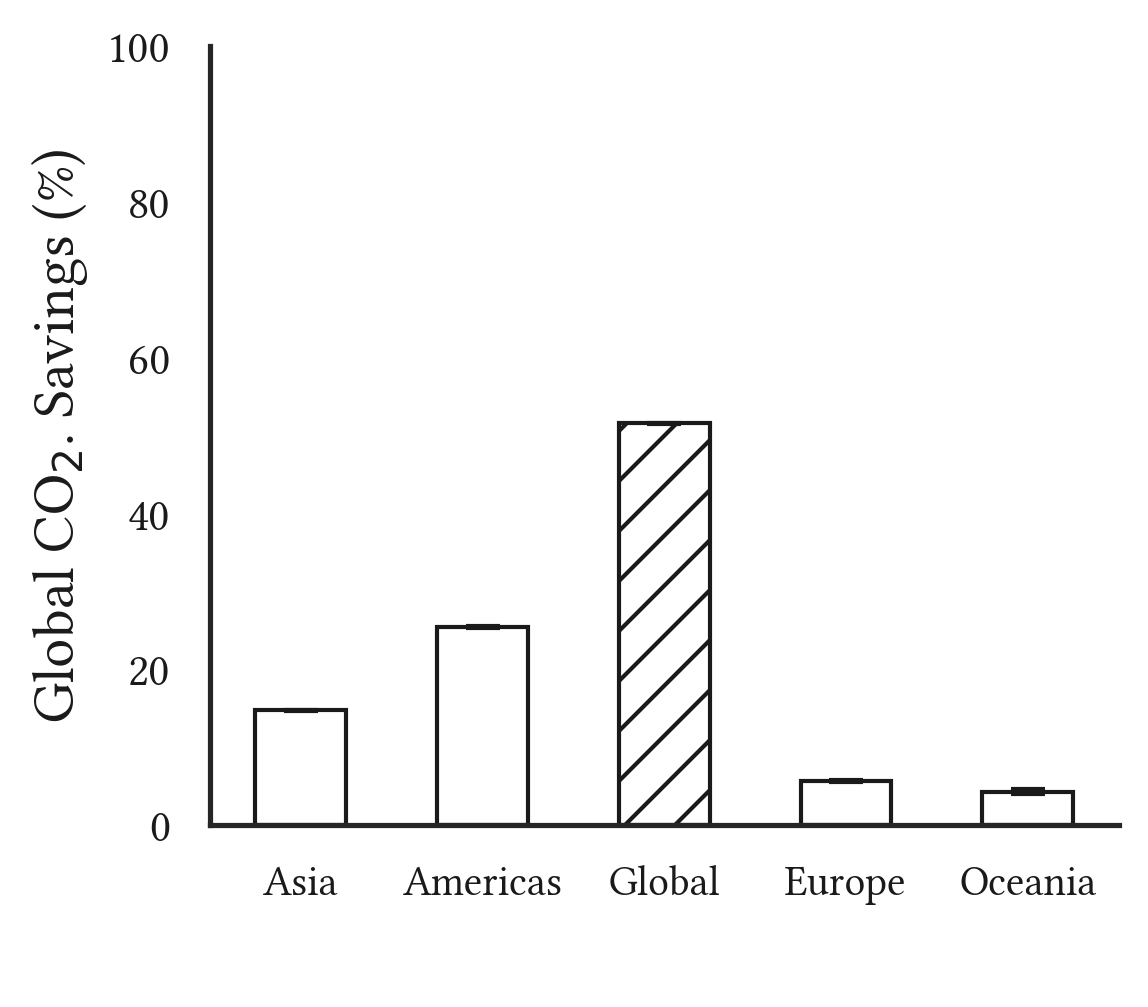
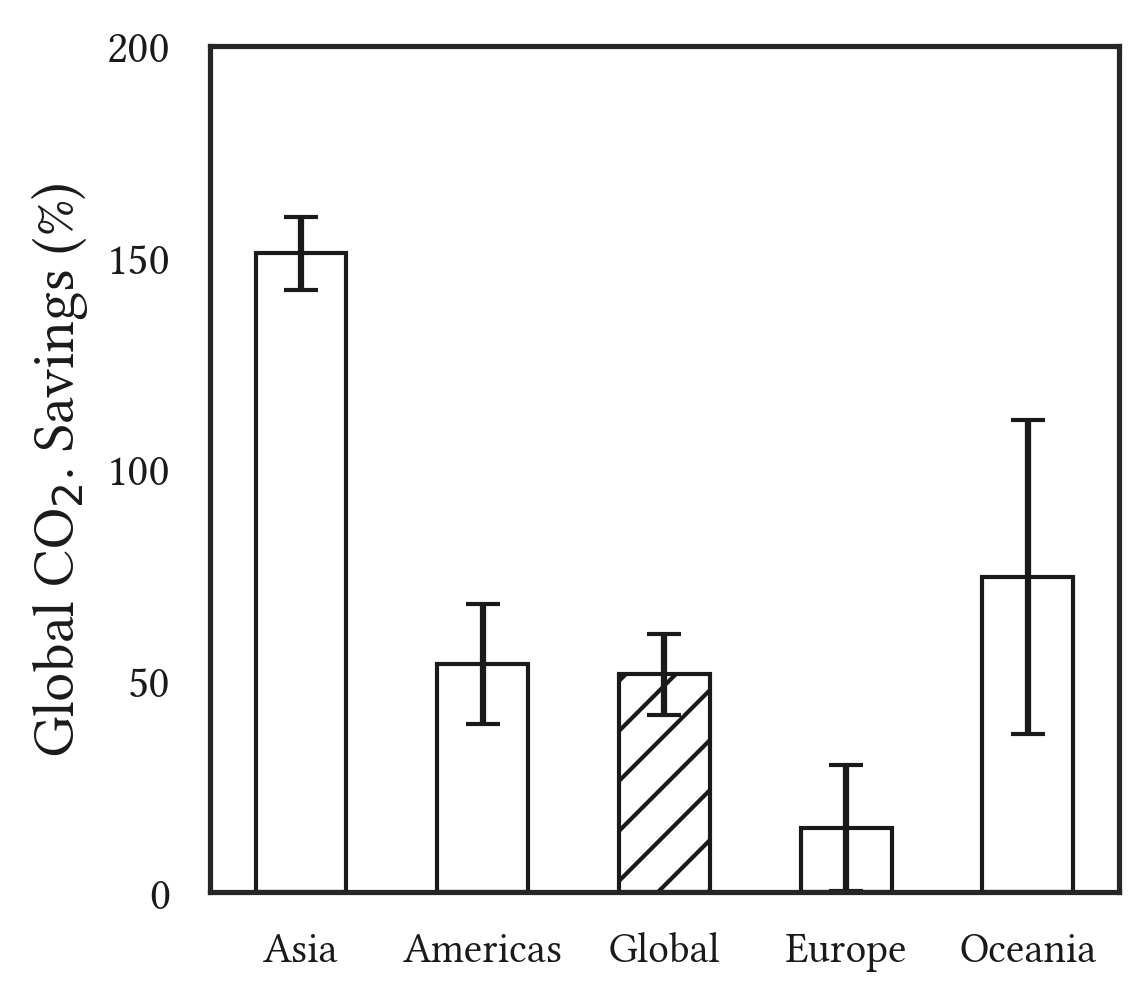
update spatial

diff --git a/spatial/grouping_breakdown_w_capacity/plot_geo_w_capacity.py b/spatial/grouping_breakdown_w_capacity/plot_geo_w_capacity.py
@@ -1,5 +1,6 @@
 import matplotlib.pyplot as plt
 import pandas as pd
+import numpy as np
 import seaborn as sns 
 import sys
 import os 
@@ -24,7 +25,9 @@ groupings = ["Asia", "Americas" ,"Global", "Europe", "Oceania",]
 combined_df = pd.DataFrame(index=["avg", "std"])
 
 
-global_baseline = data_df['0'].sum()
+# global_baseline = data_df['0'].sum()
+global_baseline = data_df['0'].mean().mean()
+
 
 for grouping in groupings: 
 
@@ -39,7 +42,7 @@ for grouping in groupings:
     region_savings /= global_baseline
     region_savings *= 100
 
-    mean_savings = region_savings.sum()
+    mean_savings = region_savings.mean()
 
 
     std_savings = region_savings.sem()
@@ -70,15 +73,16 @@ combined_df["avg"].plot.bar(ax=ax,
                    edgecolor="k")
 
 y_lower = 0
-y_upper = 100
+y_upper = 200
+step = 50
 
 plt.ylim([y_lower, y_upper])
+plt.yticks(np.arange(y_lower, y_upper+1, step))
 
 ax.set_ylabel(r"Global CO$_2$. Savings (%)",fontsize=mainlabelsize)
 ax.tick_params(left=False, bottom=False)
 
 ax.set_xticklabels(ax.get_xticklabels(), rotation=360,fontsize=ticklabelsize)
-ax.spines[['right', 'top']].set_visible(False)
 
 savename = f"{savetodir}/one_migration_w_cap_{idle_cap}"
 plt.tight_layout()

diff --git a/spatial/readme.md b/spatial/readme.md
@@ -7,6 +7,7 @@ Required files can be procssed using the scripts in [prep_rawdata](../prep_rawda
 * Required files: Combined carbon file and processed GCP latency matrix 
 * Change ```idle_cap_list``` variable in for [calculate_migrate_w_capacity_latency.py](capacity_latency/calculate_migrate_w_capacity_latency.py) for different idle capacities.
 
+
 ### Global Idle Capacity
 * Required files: Combined carbon file
 * Change ```idle_cap_list``` variable in for [calculate_global_idle_capacity.py](global_idle_capacity/calculate_global_idle_capacity.py) for different idle capacity.
@@ -15,6 +16,9 @@ Required files can be procssed using the scripts in [prep_rawdata](../prep_rawda
 
 * Required files: Combined carbon file
 * Change ```idle_cap_list``` variable in for [calculate_geo_w_capacity.py](grouping_breakdown_w_capacity/calculate_geo_w_capacity.py) for different idle capacity.
+
+
+Note that Global Idle Capacity and Grouping Breakdown with Capacity have the same experiment, but the experiment file is provided in both subdirectories.
 
 ### One and Infinite Migration
 * Required files: Combined carbon file

diff --git a/readme.md b/readme.md
@@ -11,7 +11,9 @@ We run this experiment with
 #### Python Modules 
 * pandas
 * numpy 
+* scikit-learn
 * matplotlib 
+* seaborn
 
 We generated [requirement.txt](requirement.txt) for the required python modules. <br>
 We suggest to create a Python virtual environment and install modules inside of this virtual environment.
